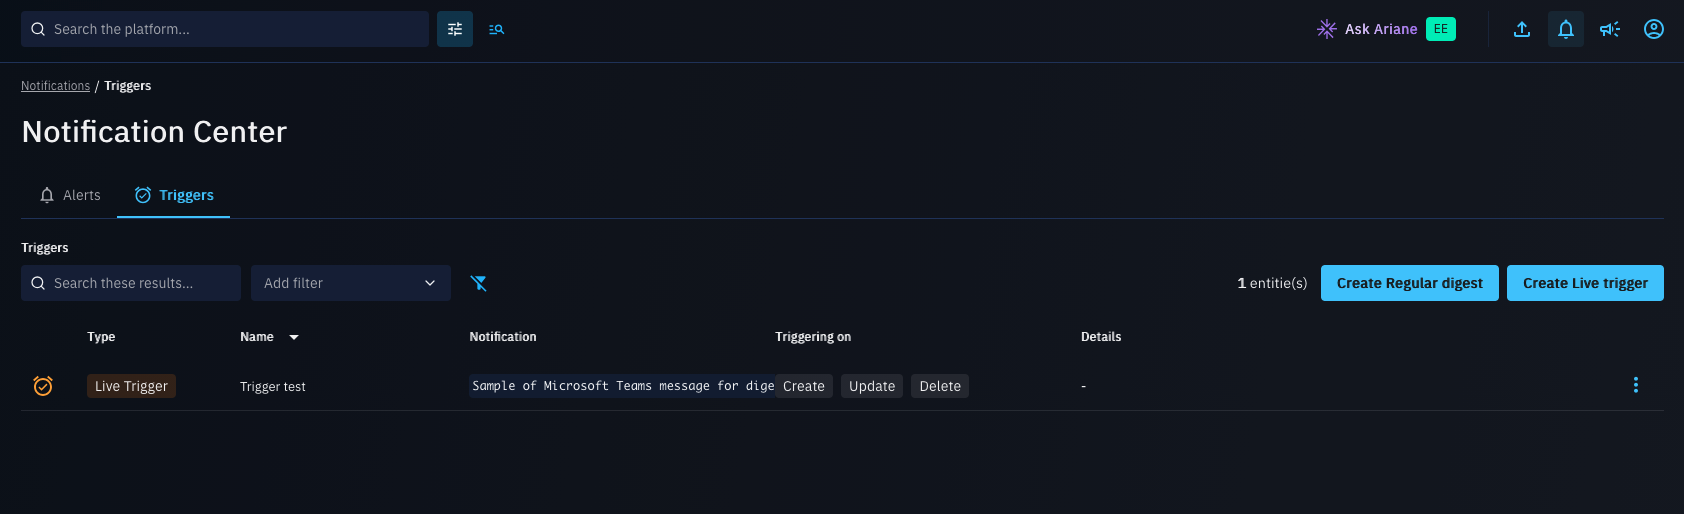
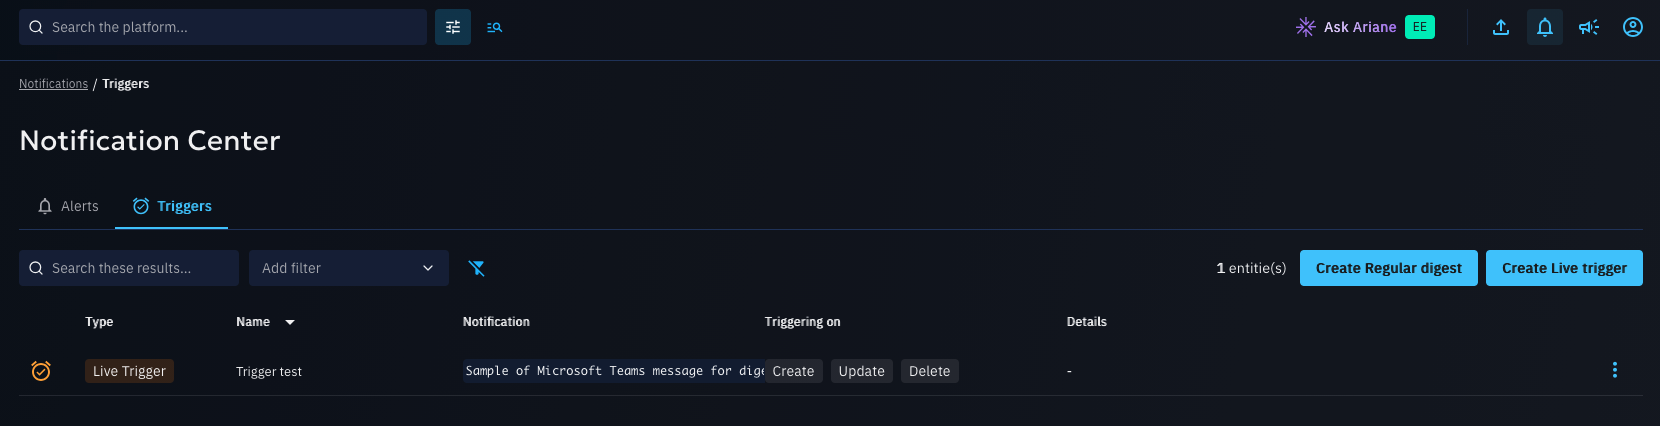
feat(notifications): PR Comments (#18449)

diff --git a/opencti-platform/opencti-front/src/private/components/profile/Root.jsx b/opencti-platform/opencti-front/src/private/components/profile/Root.jsx
@@ -1,37 +1,50 @@
 import React from 'react';
-import { Navigate, Route, Routes } from 'react-router';
+import { Navigate, Route, Routes, useLocation } from 'react-router';
 import { boundaryWrapper } from '../Error';
 import Notifications from './Notifications';
 import Profile from './Profile';
 
-const Root = () => (
-  <Routes>
-    <Route
-      path="/"
-      element={<Navigate to="/dashboard/profile/me" replace={true} />}
-    />
-    <Route
-      path="/me"
-      element={<Profile />}
-    />
-    <Route
-      path="/notifications/*"
-      element={boundaryWrapper(Notifications)}
-    />
-    {/* Legacy nested paths from before the news feed page extraction: keep bookmarks working. */}
-    <Route
-      path="/notifications/alerts"
-      element={<Navigate to="/dashboard/profile/notifications" replace={true} />}
-    />
-    <Route
-      path="/notifications/news-feed"
-      element={<Navigate to="/dashboard/news-feed" replace={true} />}
-    />
-    <Route
-      path="/triggers"
-      element={<Navigate to="/dashboard/profile/notifications/triggers" replace={true} />}
-    />
-  </Routes>
-);
+const Root = () => {
+  const location = useLocation();
+
+  return (
+    <Routes>
+      <Route
+        path="/"
+        element={<Navigate to="/dashboard/profile/me" replace={true} />}
+      />
+      <Route
+        path="/me"
+        element={<Profile />}
+      />
+      <Route
+        path="/notifications/*"
+        element={boundaryWrapper(Notifications)}
+      />
+      {/* Legacy nested paths from before the news feed page extraction: keep bookmarks working. */}
+      <Route
+        path="/notifications/alerts"
+        element={<Navigate to="/dashboard/profile/notifications" replace={true} />}
+      />
+      <Route
+        path="/notifications/news-feed"
+        element={<Navigate to="/dashboard/news-feed" replace={true} />}
+      />
+      <Route
+        path="/triggers"
+        element={(
+          <Navigate
+            to={{
+              pathname: '/dashboard/profile/notifications/triggers',
+              search: location.search,
+              hash: location.hash,
+            }}
+            replace={true}
+          />
+        )}
+      />
+    </Routes>
+  );
+};
 
 export default Root;

diff --git a/opencti-platform/opencti-front/tests_e2e/navigation/navigation.spec.ts b/opencti-platform/opencti-front/tests_e2e/navigation/navigation.spec.ts
@@ -1647,9 +1647,13 @@ const navigateTopBar = async (page: Page) => {
   const topBarPage = new TopBarPage(page);
   const leftBarPage = new LeftBarPage(page);
 
-  await topBarPage.clickOnIconLink('Alerts');
+  await topBarPage.clickOnIconLink('Notification Center');
   await expect(page).toHaveURL(/\/dashboard\/profile\/notifications(\?|$)/);
   await leftBarPage.expectBreadcrumb('Notifications', 'Alerts');
+
+  await page.getByTestId('notifications-tab-triggers').click();
+  await expect(page).toHaveURL(/\/dashboard\/profile\/notifications\/triggers(\?|$)/);
+  await leftBarPage.expectBreadcrumb('Notifications', 'Triggers');
 
   await topBarPage.clickOnIconLink('News Feed');
   await expect(page).toHaveURL(/\/dashboard\/news-feed(\?|$)/);
@@ -1664,6 +1668,10 @@ const navigateTopBar = async (page: Page) => {
   await page.goto('/dashboard/profile/notifications/alerts');
   await expect(page).toHaveURL(/\/dashboard\/profile\/notifications(\?|$)/);
   await leftBarPage.expectBreadcrumb('Notifications', 'Alerts');
+
+  await page.goto('/dashboard/profile/triggers');
+  await expect(page).toHaveURL(/\/dashboard\/profile\/notifications\/triggers(\?|$)/);
+  await leftBarPage.expectBreadcrumb('Notifications', 'Triggers');
 
   await page.goto('/dashboard/profile/notifications/news-feed');
   await expect(page).toHaveURL(/\/dashboard\/news-feed(\?|$)/);

diff --git a/opencti-platform/opencti-front/src/private/components/profile/Triggers.tsx b/opencti-platform/opencti-front/src/private/components/profile/Triggers.tsx
@@ -7,16 +7,10 @@ import { TriggersLinesPaginationQuery, TriggersLinesPaginationQuery$variables } 
 import { TriggerLineDummy } from './triggers/TriggerLine';
 import TriggerCreation from './triggers/TriggerCreation';
 import { emptyFilterGroup, useGetDefaultFilterObject } from '../../../utils/filters/filtersUtils';
-import Breadcrumbs from '../../../components/Breadcrumbs';
-import { useFormatter } from '../../../components/i18n';
-import useConnectedDocumentModifier from '../../../utils/hooks/useConnectedDocumentModifier';
 
 export const LOCAL_STORAGE_KEY_TRIGGERS = 'triggers';
 
 const Triggers: FunctionComponent = () => {
-  const { t_i18n } = useFormatter();
-  const { setTitle } = useConnectedDocumentModifier();
-  setTitle(t_i18n('Triggers'));
   const { viewStorage, helpers, paginationOptions } = usePaginationLocalStorage<TriggersLinesPaginationQuery$variables>(
     LOCAL_STORAGE_KEY_TRIGGERS,
     {
@@ -119,7 +113,6 @@ const Triggers: FunctionComponent = () => {
 
   return (
     <>
-      <Breadcrumbs elements={[{ label: t_i18n('Triggers'), current: true }]} />
       {renderLines()}
     </>
   );

diff --git a/opencti-platform/opencti-front/src/private/components/nav/TopBar.tsx b/opencti-platform/opencti-front/src/private/components/nav/TopBar.tsx
@@ -289,7 +289,7 @@ const TopBarComponent: FunctionComponent<TopBarProps> = ({
                   <Tooltip>
                     <TooltipTrigger asChild>
                       <TopBarIconLink
-                        aria-label={t_i18n('Alerts')}
+                        aria-label={t_i18n('Notification Center')}
                         to="/dashboard/profile/notifications"
                         active={location.pathname.startsWith('/dashboard/profile/notifications')}
                         icon={<NotificationsOutlined fontSize="medium" />}
@@ -303,7 +303,7 @@ const TopBarComponent: FunctionComponent<TopBarProps> = ({
                         }}
                       />
                     </TooltipTrigger>
-                    <TooltipContent>{t_i18n('Alerts')}</TooltipContent>
+                    <TooltipContent>{t_i18n('Notification Center')}</TooltipContent>
                   </Tooltip>
                   <Tooltip>
                     <TooltipTrigger asChild>

diff --git a/opencti-platform/opencti-front/src/private/components/profile/Notifications.tsx b/opencti-platform/opencti-front/src/private/components/profile/Notifications.tsx
@@ -21,11 +21,11 @@ const Notifications: FunctionComponent = () => {
   const pageTitle = t_i18n('Notification Center');
 
   if (location.pathname === `${alertsTabPath}/alerts`) {
-    return <Navigate to={alertsTabPath} replace={true} />;
+    return <Navigate to={`${alertsTabPath}${location.search}${location.hash}`} replace={true} />;
   }
 
   if (location.pathname !== alertsTabPath && !isTriggersTab) {
-    return <Navigate to={alertsTabPath} replace={true} />;
+    return <Navigate to={`${alertsTabPath}${location.search}${location.hash}`} replace={true} />;
   }
 
   setTitle(pageTitle);
